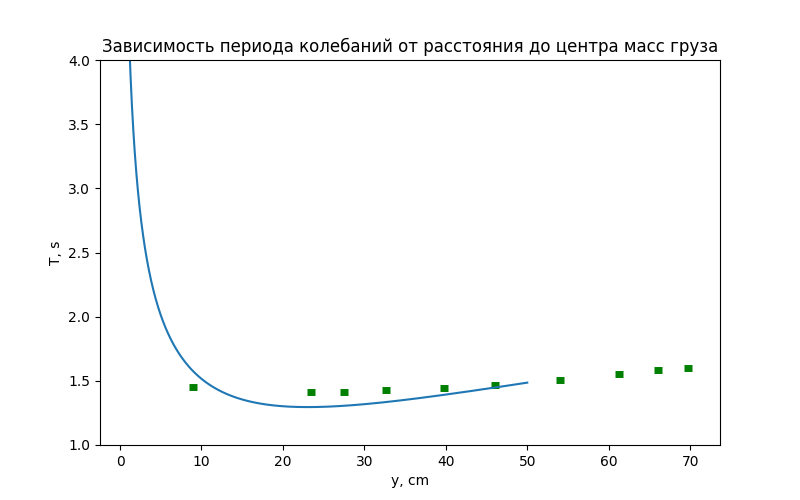
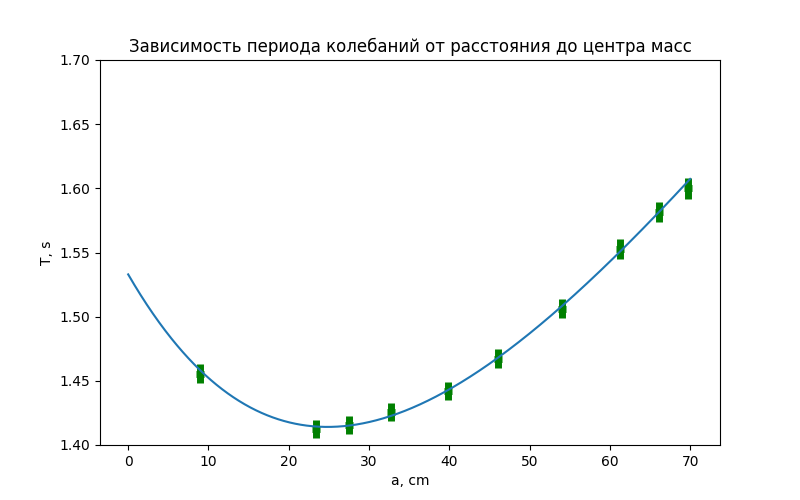
done graph 1.1.4

diff --git a/Графики.py b/Графики.py
@@ -1,7 +1,7 @@
 
 import numpy as np
 import matplotlib.pyplot as plt
-# import math
+from math import *
 
 # # plt.figure(figsize=(10, 6))
 # # a=np.array([25.20, 20.00, 13.30, 10.40, 7.40, 4.50, 37.20, 44.70, 22.00, 23.30, 23.50, 24.40])
@@ -51,44 +51,44 @@ import matplotlib.pyplot as plt
 
 
 from scipy.optimize import curve_fit #function for fitting data with a curve
-import numpy as np #work with arrays and linear algebra
-import matplotlib.pyplot as plt #plot diagrams
-#Fitting function with its argument a and two parameters
-def fit_func(a, Tmin, a0):
-    return Tmin*np.sqrt((np.square(a)+a0**2)/2/a/a0)
+# # mport numpy as np #work with arrays and linear algebra
+# # import matplotlib.pyplot as plt #plot diagrams
+# # Fitting function with its argument a and two parameters
+def fit_func(y, M, m):
+    return 2*pi*np.sqrt((17500*M + 12*m*np.square(y))/(100*9.8*(300*M + 12*m*y)))
 
 
 # # Data
-z = np.linspace(1, 50, 10000)
+z = np.linspace(0, 70, 1000)
 y = [9.005,	23.405,	27.505,	32.705,	39.805,	46.005,	54.005,	61.305,	66.105,	69.705]
-T = [1.4556, 1.4122,	1.4156,	1.4256,	1.4422,	1.4674,	1.5062,	1.553,	1.5816,	1.6]
+T = [1.4556, 1.4122, 1.4156, 1.4256, 1.4422, 1.4674,	1.5062,	1.553, 1.5816, 1.6]
 # Fitting procedure returning params values and covariation matrix.
 #Consumes fitting function, data and initial parameters values
-params, cov = curve_fit(fit_func, y, T, p0 = [30, 1.5])
+params, cov = curve_fit(fit_func, y, T)
 #create figure where to draw plots
 plt.figure(figsize=(8,5))
 # #define titles and axis limits
 plt.title("Зависимость периода колебаний от расстояния до центра масс груза")
 y = np.array(y)
 T = np.array(T)
-plt.errorbar(y, T, xerr=0.5, yerr=0.5 / 100 * T, label='T(a)', color='green', linestyle='', linewidth=5)
+plt.errorbar(y, T, xerr=0.5, yerr=0.5 / 100 * T, label='T(y)', color='green', linestyle='', linewidth=5)
 plt.ylabel("T, s")
 plt.xlabel("y, cm")
-plt.ylim(1.0, 4.0) #limit on T axis
+plt.ylim(1.35, 1.65) #limit on T axis
 #plot fitting function
 plt.plot(z, fit_func(z, params[0], params[1]))
 #print parameter values and their errors
-print("T_min ="+ str(round(params[0], 3))+ "+-"+
-str(round(np.sqrt(cov[0][0]), 3))+" s")
-print("a_0 = "+str(round(params[1], 3))+"+-"+
-str(round(np.sqrt(cov[1][1]), 3))+" cm")
+print("M ="+ str(round(params[0], 3))+ "+-"+
+str(round(np.sqrt(cov[0][0]), 3))+" kg")
+print("m = "+str(round(params[1], 3))+"+-"+
+str(round(np.sqrt(cov[1][1]), 3))+" kg")
 #show figure while running script interactively
 
 
 
 
 #save figure
-plt.savefig("T(a)+fun.png")
+plt.savefig("T(y)+fun.png")
 plt.show()
 
 

diff --git a/test.py b/test.py
@@ -1,0 +1,50 @@
+from math import *
+from scipy.optimize import curve_fit #function for fitting data with a curve
+import numpy as np #work with arrays and linear algebra
+import matplotlib.pyplot as plt #plot diagrams
+#Fitting function with its argument a and two parameters
+def fit_func(y, M, m):
+    return 2*pi*np.sqrt((17500*M + 12*m*np.square(y))/(100*9.8*(300*M + 12*m*y)))
+
+
+# # Data
+z = np.linspace(0, 70, 1000)
+y = [9.005,	23.405,	27.505,	32.705,	39.805,	46.005,	54.005,	61.305,	66.105,	69.705]
+T = [1.4556, 1.4122, 1.4156, 1.4256, 1.4422, 1.4674,	1.5062,	1.553, 1.5816, 1.6]
+# Fitting procedure returning params values and covariation matrix.
+#Consumes fitting function, data and initial parameters values
+params, cov = curve_fit(fit_func, y, T, p0 = [30, 1.5])
+#create figure where to draw plots
+plt.figure(figsize=(8,5))
+#define titles and axis limits
+plt.title("Зависимость периода колебаний от расстояния до центра масс")
+a = np.array(y)
+T = np.array(T)
+plt.errorbar(a,T,xerr=0.5, yerr=0.5/100*T,label='T(a)',color='green', linestyle='', linewidth=5)
+plt.ylabel("T, s")
+plt.xlabel("a, cm")
+plt.ylim(1.4, 1.7) #limit on T axis
+#plot fitting function
+plt.plot(z, fit_func(z, params[0], params[1]))
+#print parameter values and their errors
+# print("T_min ="+ str(round(params[0], 3))+ "+-"+
+# str(round(np.sqrt(cov[0][0]), 3))+" s")
+# print("a_0 = "+str(round(params[1], 3))+"+-"+
+# str(round(np.sqrt(cov[1][1]), 3))+" cm")
+#show figure while running script interactively
+
+
+
+
+#save figure
+plt.savefig("T(a)+fun.png")
+plt.show()
+
+
+
+
+
+m=np.array([57, 92, 92, 92, 92, 92, 116, 142, 180, 219, 273, 341, 74])
+om = np.array([0.034522996, 0.057119866, 0.056605273, 0.056861405, 0.057643902, 0.056861405, 0.072220521, 0.087672353, 0.112199738, 0.135413476, 0.169054313, 0.212989332, 0.046370371])
+plt.scatter(om*1000, m)
+plt.show()
